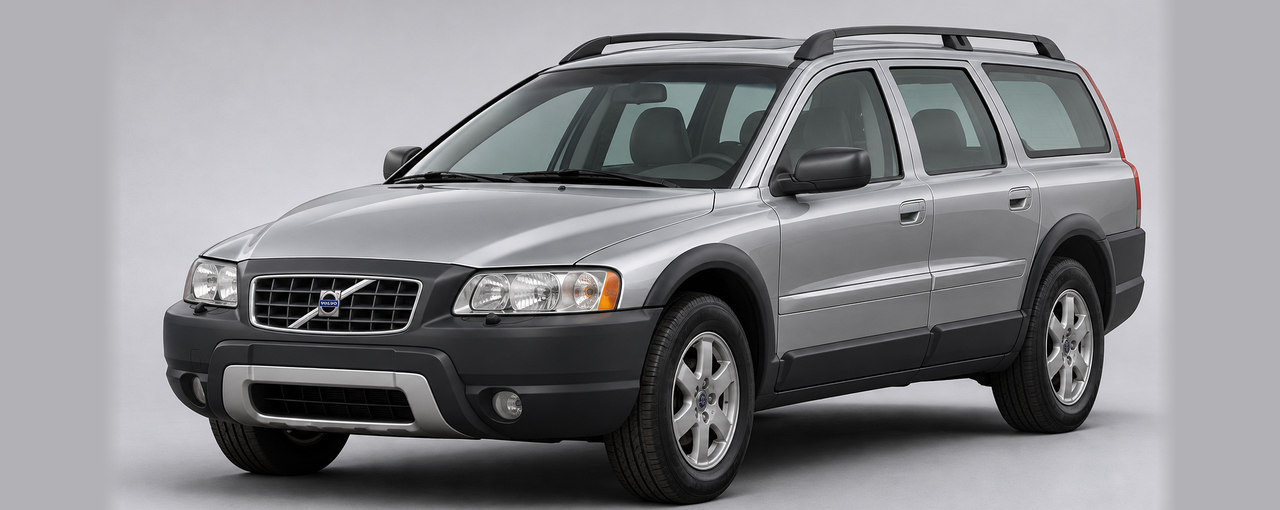
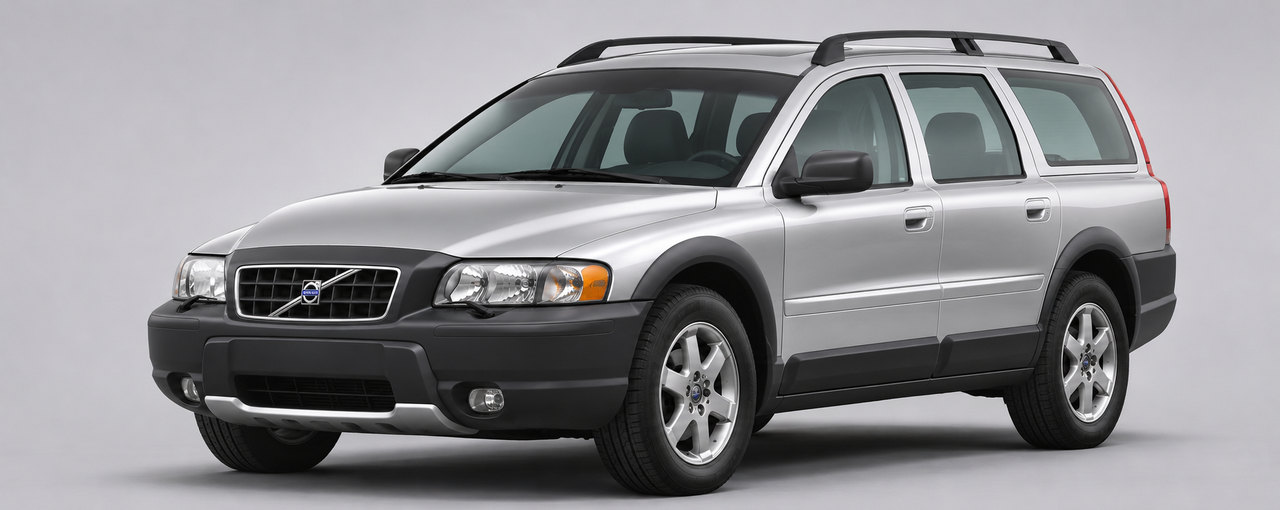
fix(aurora): replace banded XC70 P2 JPG with full-frame generated render and pin digest

diff --git a/tests/Dvinholm.App.Tests/AuroraVehicleArtworkCatalogTests.cs b/tests/Dvinholm.App.Tests/AuroraVehicleArtworkCatalogTests.cs
@@ -197,6 +197,26 @@ public sealed class AuroraVehicleArtworkCatalogTests
     }
 
     [Fact]
+    public void Xc70P2UsesTheReframedSilverStudioImageBaseline()
+    {
+        var model = AuroraVehicleArtworkCatalog.Resolve("xc70-p2");
+        Assert.Equal("Volvo XC70 II · P2", model.Label);
+        Assert.Equal("P2", model.Platform);
+        Assert.Equal("ms-appx:///Assets/Vehicles/xc70-p2.jpg",
+            AuroraVehicleArtworkCatalog.ImageUri(model));
+
+        // This SHA-256 is an intentional asset-change gate, not OEM accuracy.
+        using var manifest = JsonDocument.Parse(Source("assets/vehicles/manifest.json"));
+        var entry = manifest.RootElement.EnumerateArray()
+            .Single(element => element.GetProperty("modelId").GetString() == model.Id);
+        Assert.Equal(88700, entry.GetProperty("bytes").GetInt32());
[1 lines of base64/hex data omitted]
+            entry.GetProperty("sha256").GetString());
+        Assert.Equal("AI-generated reference render; not verified OEM geometry",
+            entry.GetProperty("source").GetString());
+    }
+
+    [Fact]
     public void S80P2UsesTheReframedDarkBlueStudioImageBaseline()
     {
         var model = AuroraVehicleArtworkCatalog.Resolve("s80-p2");

diff --git a/docs/design/aurora-approved/VEHICLE-MODEL-REVIEW.md b/docs/design/aurora-approved/VEHICLE-MODEL-REVIEW.md
@@ -64,6 +64,8 @@ Unblock-File -LiteralPath '.\eng\Capture-UnifiedAuroraWinUI3.ps1'
 
[1 lines of base64/hex data omitted]
 
[1 lines of base64/hex data omitted]
+
 Смена языка RU/EN при неизменной вручную выбранной модели теперь должна сохранять уже загруженный JPG и состояние его декодирования; только смена модели назначает новый источник и сбрасывает признак успешного декодирования. Офлайн-тест проверяет эту границу, фактическое отсутствие мерцания проверяется на Windows.
 
 ## Локальный HTML-отчёт для 18 настоящих скриншотов
@@ -93,4 +95,4 @@ Unblock-File -LiteralPath '.\eng\Capture-UnifiedAuroraWinUI3.ps1'
 & '.\eng\Install-VolvoVehicleArtwork.ps1' -ModelId s80-p2 -SourceJpg 'C:\Review\s80-p2-reframed.jpg' -Apply
 ```
 
-Подготовлен новый справочный рендер **S80 I · P2** с полной крышей и двумя колёсами. Но до фактической загрузки этого файла в ветку и повторной сборки артефакта **нельзя считать изображение заменённым в приложении**. Даже после этого остаётся обязательной настоящая RU/EN-проверка WinUI 3. Скрипт ничего не устанавливает, не публикует и не отправляет автомобильных запросов.
+Новый JPG **S80 I · P2** уже включён в исходники PR #702 и прошёл exact-head x64-пакетирование; текущий **XC70 II · P2** заменён следующим изменением. Для обоих изображений обязательна настоящая RU/EN-проверка WinUI 3: успешный CI означает сборку и целостность файлов, а не геометрическую точность. Инструмент ничего не устанавливает, не публикует и не отправляет автомобильных запросов.
